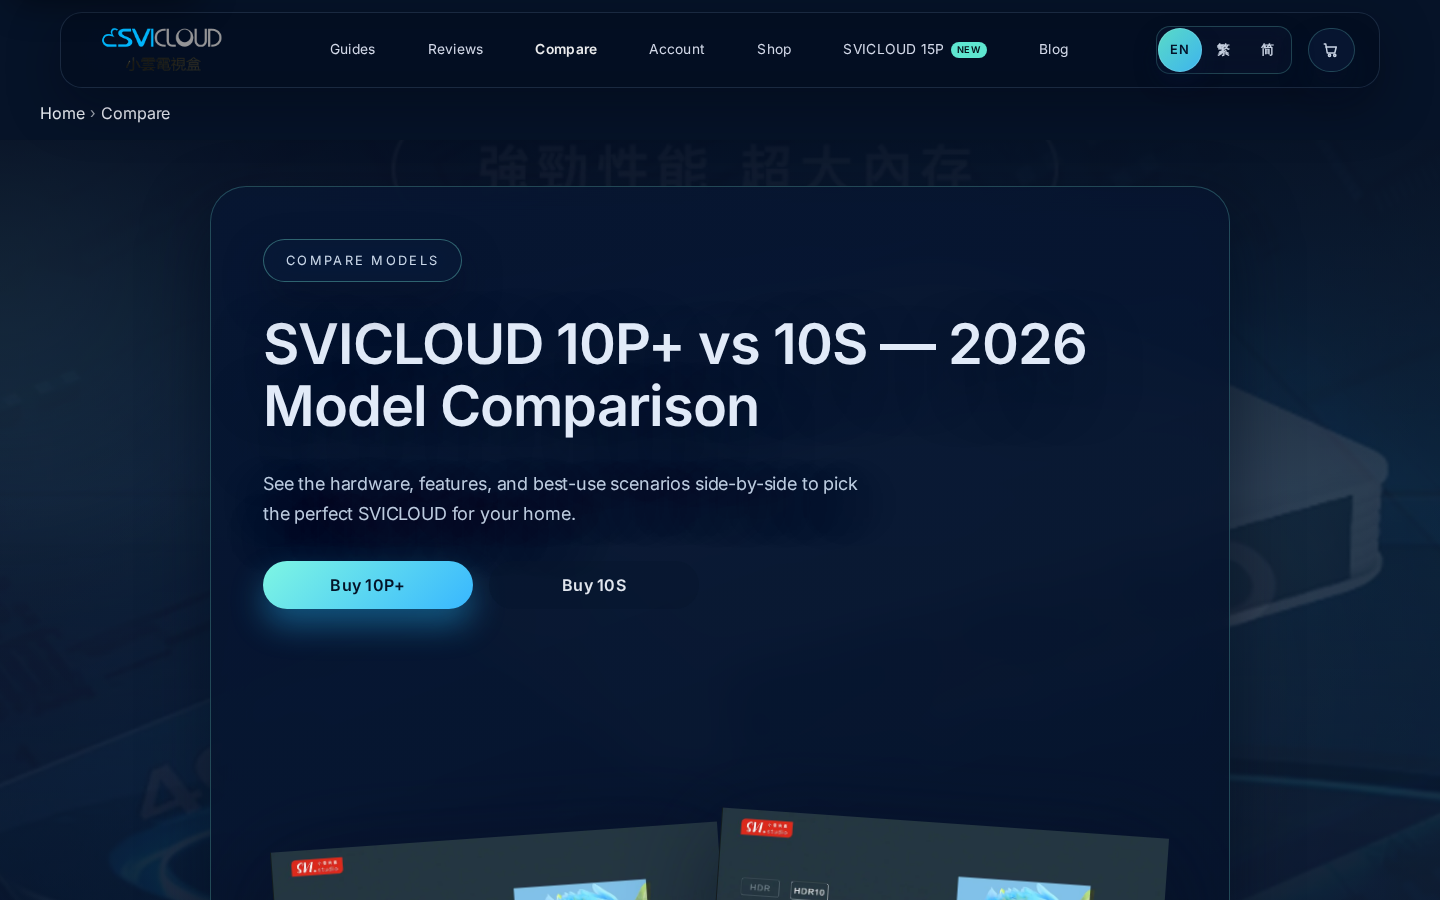
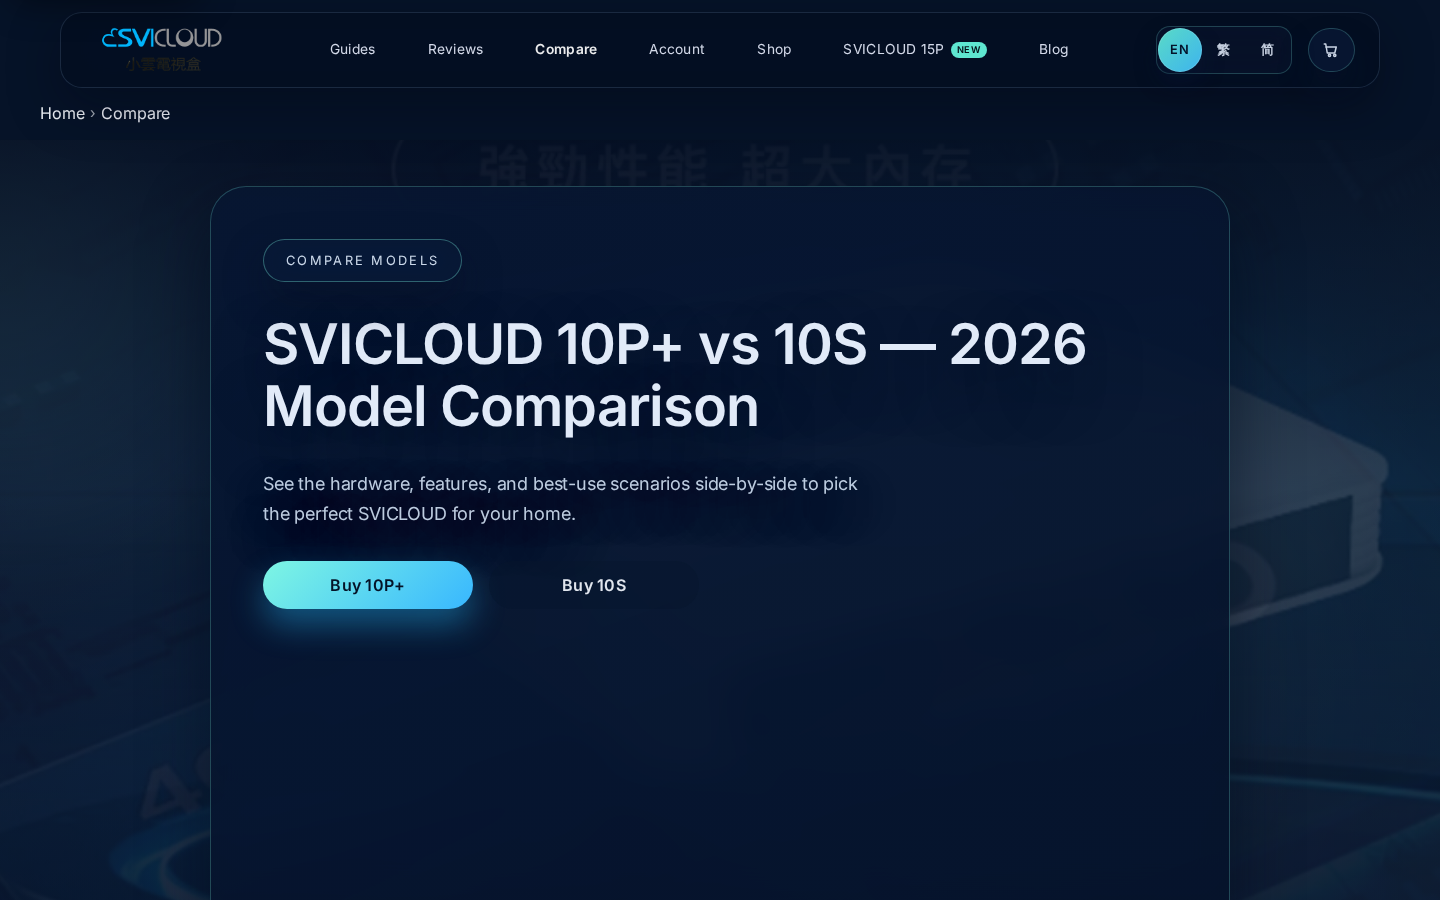
test(theme): verify storefront accessibility UX

Changed region(s): [[0.1875, 0.9022, 0.8125, 1.0]]

diff --git a/theme/svicloudtvbox-lumen/assets/css/front-page.css b/theme/svicloudtvbox-lumen/assets/css/front-page.css
@@ -404,17 +404,19 @@ body.home .hero-dashboard__cta{align-items:stretch}
 @media(min-width:1200px){.lumen-pricing__inner,.lumen-pricing__grid{width:min(1320px,calc(100vw - 64px))}
 .lumen-pricing__grid{grid-template-columns:repeat(3,minmax(0,1fr));gap:clamp(1.25rem,2.4vw,2rem)}
 }
-@media(max-width:720px){.lumen-pricing .shop-product-card__header,.lumen-pricing .shop-product-card__body{padding-inline:24px}
+@media(max-width:720px){.lumen-pricing__grid{grid-template-columns:minmax(0,1fr)}
+.lumen-pricing .shop-product-card__header,.lumen-pricing .shop-product-card__body{padding-inline:24px}
 }
 @media(max-width:430px){.lumen-pricing .shop-product-card__price-line{gap:8px}
 .lumen-pricing .shop-product-card__price-amount .lumen-price{gap:8px}
 .lumen-pricing .shop-product-card__price-note{font-size:var(--lumen-font-size-label);letter-spacing:0.1em}
 }
 .lumen-confidence{position:relative;padding:clamp(3rem,7vw,5rem) 0;background:radial-gradient(circle at top left,rgba(94,230,208,0.14),transparent 48%),linear-gradient(180deg,rgba(5,14,34,0.96) 0%,rgba(7,18,42,0.94) 100%);color:var(--lumen-text-primary)}
-.lumen-confidence__inner{width:var(--max-width-hero);margin:0 auto;display:grid;gap:clamp(1.5rem,4vw,2.5rem)}
-.lumen-confidence__header{gap:0.9rem}
+.lumen-confidence__inner{width:var(--max-width-hero);margin:0 auto;display:grid;gap:clamp(1.5rem,4vw,2.5rem);min-width:0;max-width:100%}
+.lumen-confidence__header{gap:0.9rem;min-width:0}
+.lumen-confidence__header .lumen-section-header__title{overflow-wrap:anywhere}
 .lumen-confidence__badge,.lumen-confidence__timeline-badge{display:inline-flex;align-items:center;justify-content:center;width:fit-content;padding:0.4rem 0.9rem;border-radius:999px;border:1px solid rgba(126,246,227,0.28);background:rgba(8,26,58,0.72);color:rgba(226,240,255,0.88);font-size:0.76rem;letter-spacing:0.14em;text-transform:uppercase}
-.lumen-confidence__layout{display:grid;grid-template-columns:minmax(0,1.1fr) minmax(320px,0.9fr);gap:clamp(1.2rem,3vw,2rem);align-items:start}
+.lumen-confidence__layout{display:grid;grid-template-columns:minmax(0,1.1fr) minmax(320px,0.9fr);gap:clamp(1.2rem,3vw,2rem);align-items:start;min-width:0}
 .lumen-confidence__grid{display:grid;grid-template-columns:repeat(2,minmax(0,1fr));gap:clamp(1rem,2.4vw,1.4rem)}
 .lumen-confidence-card,.lumen-confidence__timeline{border-radius:var(--radius-2xl);border:1px solid rgba(126,246,227,0.16);background:rgba(8,20,46,0.74);box-shadow:0 28px 72px rgba(4,12,30,0.48);backdrop-filter:var(--glass-blur-soft)}
 .lumen-confidence-card{padding:clamp(1.2rem,3vw,1.6rem);display:grid;gap:0.7rem;min-height:100%}
@@ -432,7 +434,7 @@ body.home .hero-dashboard__cta{align-items:stretch}
 .lumen-confidence__step-copy p{margin:0;color:var(--lumen-text-secondary);line-height:1.65}
 .lumen-confidence__actions{display:flex;flex-wrap:wrap;gap:0.75rem;margin-top:0.25rem}
 .lumen-confidence__actions .lumen-pill{min-width:min(220px,100%);justify-content:center}
-@media(max-width:960px){.lumen-confidence__layout{grid-template-columns:1fr}
+@media(max-width:960px){.lumen-confidence__layout{grid-template-columns:minmax(0,1fr)}
 }
 @media(max-width:720px){.lumen-confidence__grid{grid-template-columns:1fr}
 .lumen-confidence__actions .lumen-pill{width:100%}

diff --git a/tests/playwright/frontend-quality.spec.ts b/tests/playwright/frontend-quality.spec.ts
@@ -133,6 +133,36 @@ test.describe('storefront frontend quality safeguards', () => {
     } else {
       await expect(placeOrder).toBeEnabled();
     }
+
+    await page.evaluate(() => {
+      const error = document.createElement('ul');
+      error.className = 'woocommerce-error';
+      error.innerHTML = '<li>Test validation error</li>';
+      document.querySelector('.lumen-checkout')?.prepend(error);
+      document.querySelector('#billing_first_name_field')?.classList.add('woocommerce-invalid-required-field');
+      const pageWindow = window as Window & {
+        jQuery?: (target: EventTarget) => { trigger: (eventName: string) => void };
+      };
+      pageWindow.jQuery?.(document.body).trigger('checkout_error');
+    });
+    await expect(page.locator('.woocommerce-error')).toHaveAttribute('role', 'alert');
+    await expect(page.locator('#billing_first_name')).toHaveAttribute('aria-invalid', 'true');
+  });
+
+  test('all scoped EN and zh discovery routes reflow at 320px', async ({ page }) => {
+    await page.setViewportSize({ width: 320, height: 844 });
+    const routes = [
+      '/', '/shop/', '/compare/', '/product/svicloud-15p/', '/product/svicloud-10p-plus/', '/product/svicloud-9p/',
+      '/zh/', '/zh/shop/', '/zh/compare/', '/zh/product/svicloud-15p/',
+    ];
+
+    for (const route of routes) {
+      const response = await page.goto(route, { waitUntil: 'domcontentloaded' });
+      expect(response?.ok(), route).toBeTruthy();
+      await expect(page.locator('h1'), `${route} should have one H1`).toHaveCount(1);
+      const hasOverflow = await page.evaluate(() => document.documentElement.scrollWidth > window.innerWidth + 1);
+      expect(hasOverflow, `${route} should reflow without horizontal scrolling`).toBe(false);
+    }
   });
 
   test('reduced motion disables nonessential page animation and transitions', async ({ browser }) => {

diff --git a/theme/svicloudtvbox-lumen/assets/css/parts/49b-lumen-section-confidence.css b/theme/svicloudtvbox-lumen/assets/css/parts/49b-lumen-section-confidence.css
@@ -16,10 +16,17 @@
   margin: 0 auto;
   display: grid;
   gap: clamp(1.5rem, 4vw, 2.5rem);
+  min-width: 0;
+  max-width: 100%;
 }
 
 .lumen-confidence__header {
   gap: 0.9rem;
+  min-width: 0;
+}
+
+.lumen-confidence__header .lumen-section-header__title {
+  overflow-wrap: anywhere;
 }
 
 .lumen-confidence__badge,
@@ -43,6 +50,7 @@
   grid-template-columns: minmax(0, 1.1fr) minmax(320px, 0.9fr);
   gap: clamp(1.2rem, 3vw, 2rem);
   align-items: start;
+  min-width: 0;
 }
 
 .lumen-confidence__grid {
@@ -168,7 +176,7 @@
 
 @media (max-width: 960px) {
   .lumen-confidence__layout {
-    grid-template-columns: 1fr;
+    grid-template-columns: minmax(0, 1fr);
   }
 }
 

diff --git a/theme/svicloudtvbox-lumen/assets/css/parts/49-lumen-section-pricing.css b/theme/svicloudtvbox-lumen/assets/css/parts/49-lumen-section-pricing.css
@@ -111,6 +111,10 @@
 }
 
 @media (max-width: 720px) {
+  .lumen-pricing__grid {
+    grid-template-columns: minmax(0, 1fr);
+  }
+
   .lumen-pricing .shop-product-card__header,
   .lumen-pricing .shop-product-card__body {
     padding-inline: 24px;

diff --git a/docs/frontend-audit/verification-report.md b/docs/frontend-audit/verification-report.md
@@ -1,0 +1,77 @@
+# Storefront accessibility and UX verification
+
+## Outcome
+
+The scoped homepage, navigation, shop, compare, 15P/10P+/9P product pages, cart, and checkout were audited and improved locally. Production was not deployed.
+
+## Before/after dimensions
+
+Heights are rendered CSS pixels from `before/audit.json` and `after/audit.json`. A taller commerce page is intentional where bare Woo Blocks were replaced by complete accessible UI.
+
+| Route | Desktop before → after | Mobile before → after | Result |
+|---|---:|---:|---|
+| Homepage | 11,141 → 8,153 | 17,374 → 13,567 | Duplicate marketing blocks removed; no containment paint gaps. |
+| Shop | 3,984 → 2,787 | 5,349 → 5,368 | Three balanced desktop cards; mobile type/targets improved. |
+| Compare | 7,580 → 7,358 | 11,188 → 10,963 | Tighter rhythm and readable functional labels. |
+| 15P PDP | 5,605 → 5,454 | 8,549 → 8,439 | Tighter comparison/support rhythm; TBC state preserved. |
+| 10P+ PDP | 5,639 → 5,517 | 7,815 → 7,687 | 44 px quantity and improved utility/FAQ targets. |
+| 9P PDP | 5,372 → 5,244 | 7,165 → 7,016 | Legacy funnel preserved with improved targets/rhythm. |
+| Cart | 1,172 → 2,118 | 1,734 → 3,320 | Bare Block Cart replaced by complete semantic/branded cart UI. |
+| Checkout | 3,186 → 3,218 | 4,776 → 4,799 | Summary-first mobile flow, unique coupon UI, consistent notices/payment state. |
+
+Every one of the 16 full-page before/after screenshot pairs has a different SHA-256 hash. Viewport and expanded-navigation evidence is stored alongside the full-page captures.
+
+## Accessibility evidence
+
+Final `accessibility-audit.json` covers eight routes at 1440, 390, and 320 CSS pixels:
+
+- 24/24 have exactly one H1 and one main landmark.
+- 24/24 have no horizontal overflow.
+- Zero duplicate IDs.
+- Zero visible unlabeled inputs.
+- Zero nonessential active animation/transition under reduced-motion emulation.
+- Mobile menu locks scroll, makes the background inert, loops focus, closes with Escape, and returns focus.
+- Skip link is first in tab order and focuses `#main-content`.
+- Cart quantity/remove controls and primary actions meet 44 px sizing.
+- Checkout coupon controls have unique IDs; simulated Woo errors receive `role="alert"` and field `aria-invalid` state.
+- No-gateway checkout provides an explanatory disabled `Payment unavailable` action.
+- `contrast-audit.json` reports zero conservative solid-background candidates; gradient controls were manually reviewed in final screenshots.
+
+`tests/playwright/frontend-quality.spec.ts` guards these results in Chromium and WebKit, including EN/zh reflow at 320 px.
+
+## Build and source checks
+
+- All 56 theme PHP files pass `php -l`.
+- `git diff --check` passes.
+- `python3 scripts/build_css.py --theme svicloudtvbox-lumen` succeeds.
+- `python3 scripts/build_js.py --theme svicloudtvbox-lumen` succeeds.
+- Generated CSS is reproducible from registered partials.
+- Local and container SHA-256 hashes match for `style.css`, `front-page.css`, `compare.css`, and `woocommerce.css`.
+- `sync_theme_container.sh svicloud10p` completes with the bind-mounted local theme.
+
+## Browser verification
+
+Final full command: `npm test`
+
+Expected final result after the last regression additions: **106 passed, 8 declared skips, 0 failed**.
+
+Declared skips are pre-existing environment/content gates:
+- Stripe purchase/widget checks require `PLAYWRIGHT_STRIPE_E2E=1` and configured Stripe test credentials.
+- Checkout coupon-toggle continuation is absent because the theme exposes the coupon form directly in the order summary.
+- One optional blog anchor test skips when its local fixture route is absent.
+
+Strict smoke coverage continues to collect console errors without an ignore list across desktop and mobile routes.
+
+## Finding reconciliation
+
+- Accessibility findings A1–A10: resolved or, for inline prose links, retained under the WCAG inline-target exception. See `accessibility-review.md`.
+- Design findings D1–D7: fixed or materially improved within the existing brand/content boundaries. See `design-ux-review.md`.
+- 15P remains non-purchasable with visible SPEC/FEATURE/AVAILABILITY/POLICY TBC language; no unconfirmed offer was introduced.
+- EN/zh rendering, 9P/10P funnels, WooCommerce behavior, and existing launch safeguards remain covered.
+
+## Commits
+
+- `0ffa9ea fix(theme): establish accessible storefront foundations`
+- `c556687 fix(theme): streamline storefront discovery UX`
+- `251128c fix(woocommerce): repair cart and checkout UX`
+- Final verification/documentation commit follows this report.

diff --git a/docs/frontend-audit/accessibility-review.md b/docs/frontend-audit/accessibility-review.md
@@ -11,7 +11,24 @@ Evidence:
 
 This is an implementation audit toward WCAG 2.2 AA expectations, not a certification.
 
-## Critical issues
+## Resolution status
+
+| Finding | Resolution |
+|---|---|
+| A1 mobile menu focus/context | Fixed: scroll lock, inert background, focus loop, Escape close, focus return, and Open/Close accessible names; automated in `frontend-quality.spec.ts`. |
+| A2 cart semantics | Fixed: block-authored Cart pages now render the maintained classic template with one H1, named 44 px quantity/remove controls, and branded summary. |
+| A3 duplicate checkout feedback | Fixed: server notices remain inline; the JS toast is used only when no inline notice exists. |
+| A4 duplicate coupon IDs | Fixed: canonical `coupon_code` and display `checkout_coupon_code` have unique label relationships. |
+| A5 skip navigation | Fixed globally: first Tab exposes the translated skip link and activation focuses `#main-content`. |
+| A6 undersized PDP controls | Fixed: quantity is 44 px; utility/FAQ links have at least 24 px line boxes and global visible focus. |
+| A7 checkout errors/payment dead end | Fixed: generated errors receive alert semantics/invalid state; no-gateway checkout exposes a disabled “Payment unavailable” action. |
+| A8 reduced motion | Fixed globally: nonessential animations, transitions, delays, and smooth scrolling become 0 under reduced motion. |
+| A9 touch targets | Fixed for primary, language, menu, quantity, remove, checkout, and icon controls; inline prose links retain the WCAG inline exception. |
+| A10 functional type | Fixed on high-impact shop, compare, prelaunch, and checkout labels using the shared 0.8 rem functional token. |
+
+Final automated audit: 24 route/width combinations, zero horizontal overflow, zero missing/duplicate H1s, zero duplicate IDs, zero unlabeled inputs, and zero active motion under reduced-motion emulation. Conservative solid-background contrast scan reports zero candidates; rendered gradients were reviewed in final screenshots.
+
+## Original critical issues
 
 ### A1. Mobile navigation is not modal when expanded
 

diff --git a/docs/frontend-audit/design-ux-review.md b/docs/frontend-audit/design-ux-review.md
@@ -2,7 +2,21 @@
 
 Reviewed from the local desktop/mobile captures in `docs/frontend-audit/before/` using the existing dark/teal brand direction.
 
-## Top issues
+## Resolution status
+
+| Finding | Resolution |
+|---|---|
+| D1 unfinished cart | Fixed with the maintained branded cart template, one clear checkout action, compact summary, responsive item card/table, and real product image fallback. |
+| D2 overlong homepage | Fixed by removing duplicate metrics/feature/experience/inline-CTA blocks, reducing hero choices, and removing fragile content containment. Height fell 27% desktop and 22% mobile. |
+| D3 checkout completion friction | Fixed: one inline notice, unique coupon UI, summary before billing/payment on mobile, themed Select2, and explicit no-payment state. |
+| D4 orphan shop card | Fixed: balanced three-column catalog at wide desktop, two-column tablet, one-column mobile; prelaunch remains visually distinct. |
+| D5 repetitive PDP controls/hierarchy | Improved with tighter traffic/FAQ/comparison rhythm, 44 px quantity control, readable functional labels, and consistent utility-link targets/focus. |
+| D6 dense comparison | Improved with reduced section gaps, tighter traffic/FAQ modules, and larger functional model labels while retaining all buyer facts. |
+| D7 inconsistent states/type | Fixed through shared 44 px controls, 0.8 rem label token, universal focus ring, reduced-motion state, current mobile-nav treatment, inline notices, and disabled payment state. |
+
+All 16 before/after route screenshots have different SHA-256 hashes. Final evidence is in `docs/frontend-audit/after/`.
+
+## Original top issues
 
 ### D1. Cart appears unfinished and breaks the brand/component system — critical
 
